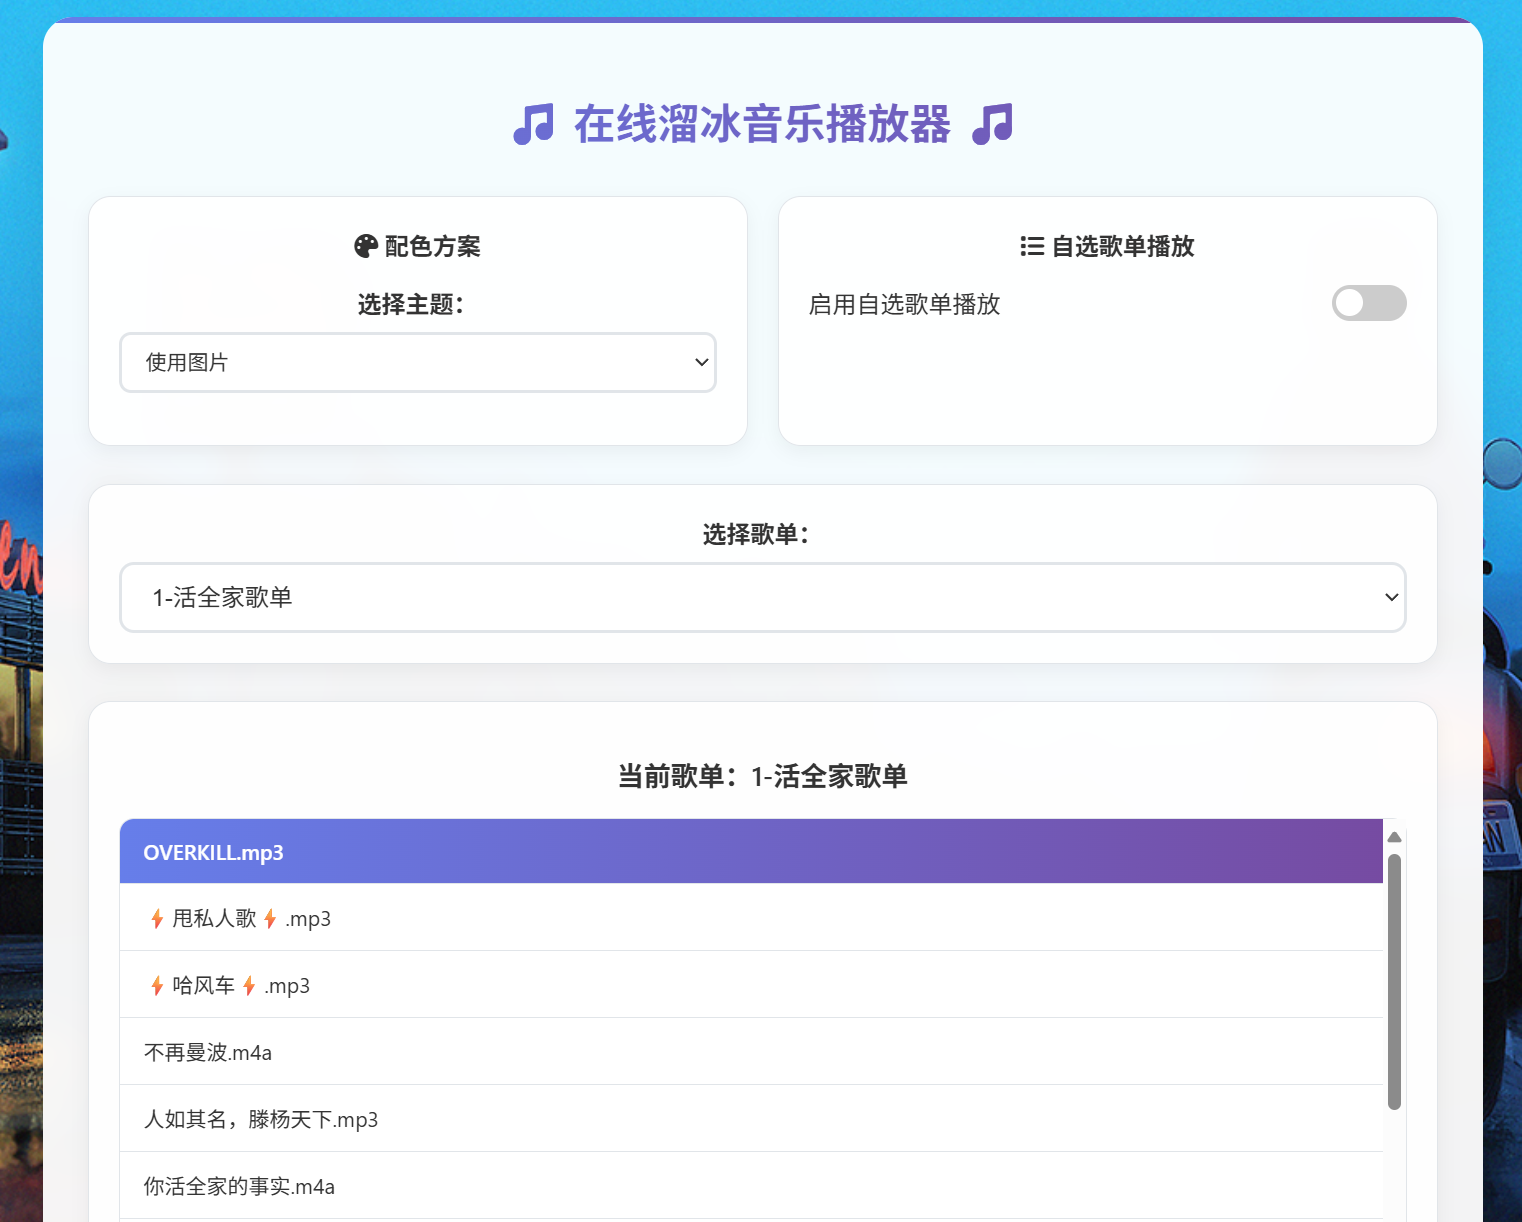
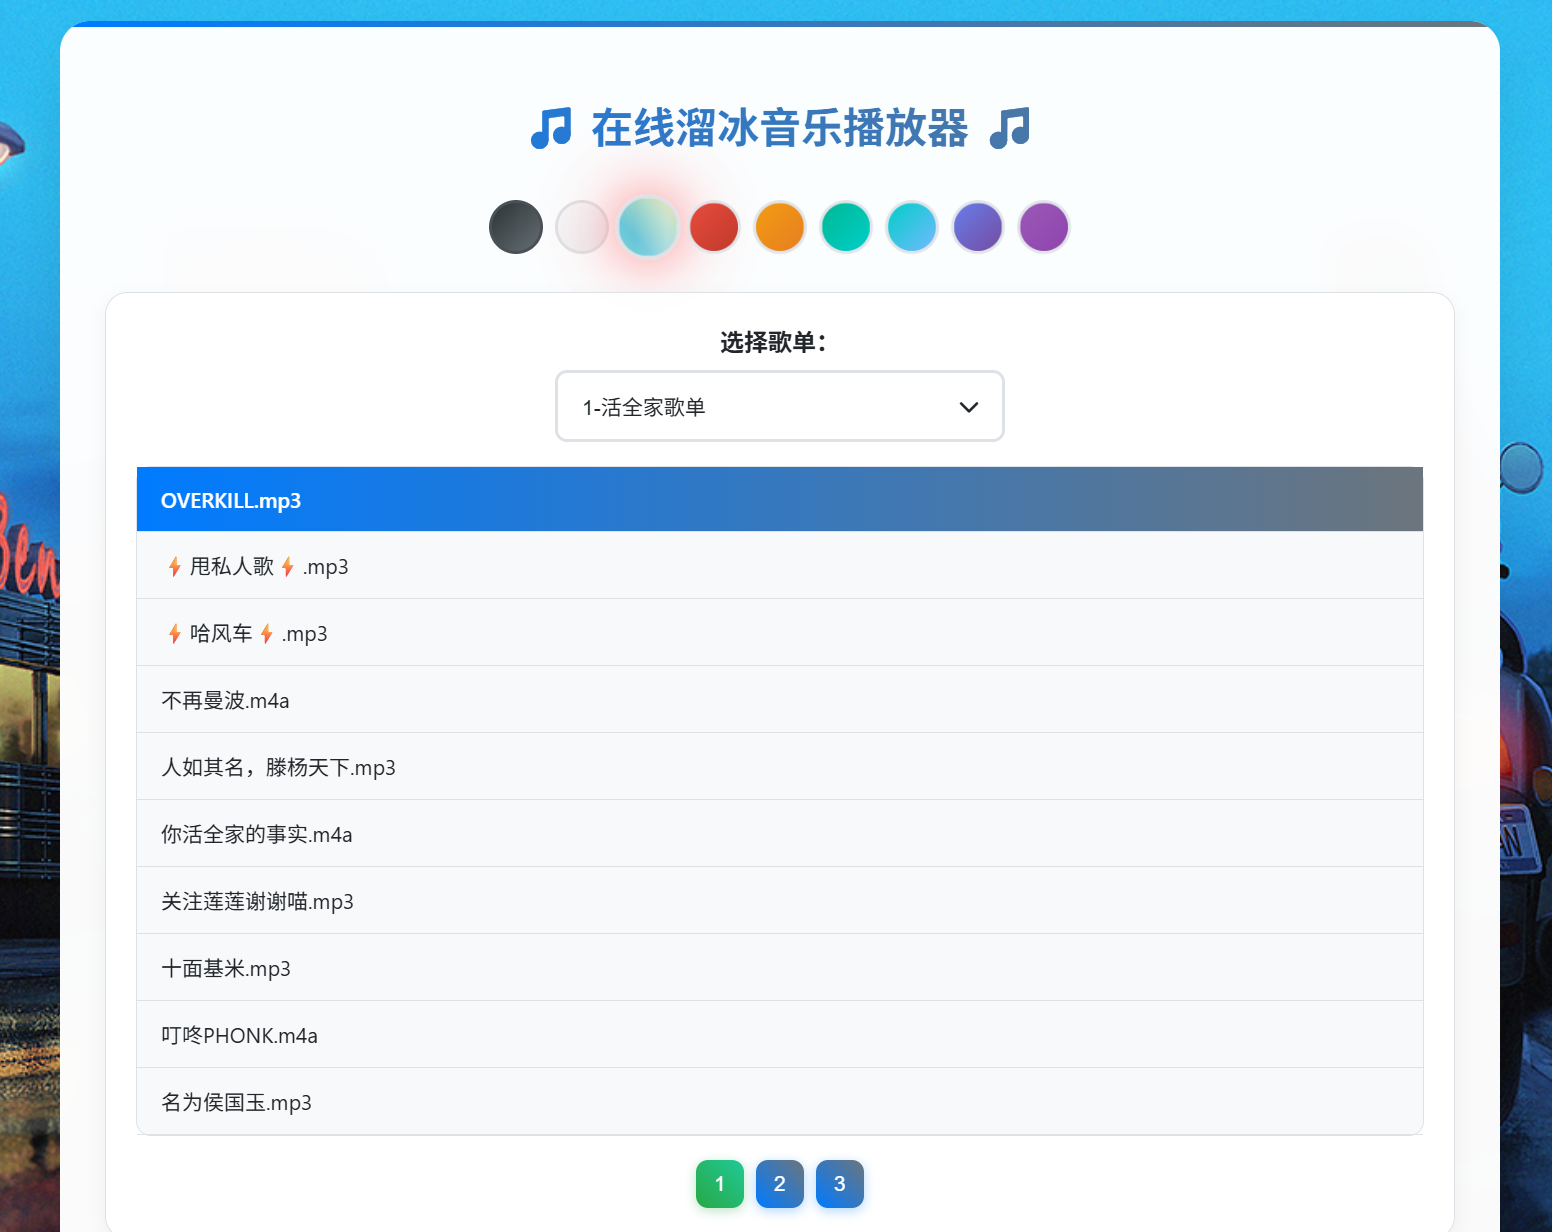
更新效果图

diff --git a/README.md b/README.md
@@ -10,9 +10,9 @@
 
 - 🎵 支持多种音频格式（MP3、M4A、AAC等）
 - 📄 自动歌词显示和翻译支持
-- 🎨 8种配色方案，实时切换
-- 📱 分页浏览，每页10首歌曲
-- 🌐 自选歌单播放功能
+- 🎨 8种配色方案，流畅动画
+- 📱 分页加载，每页10首歌曲
+- 🌐 自由多选歌单播放功能
 
 ## 快速开始
 
@@ -24,7 +24,7 @@
 
 ## 歌词文件格式
 
-使用标准LRC格式，支持翻译：
+使用标准LRC格式，支持翻译（同时间戳的后一句会被认为是翻译）：
 
 ```
 [00:00:00]Hello World!
